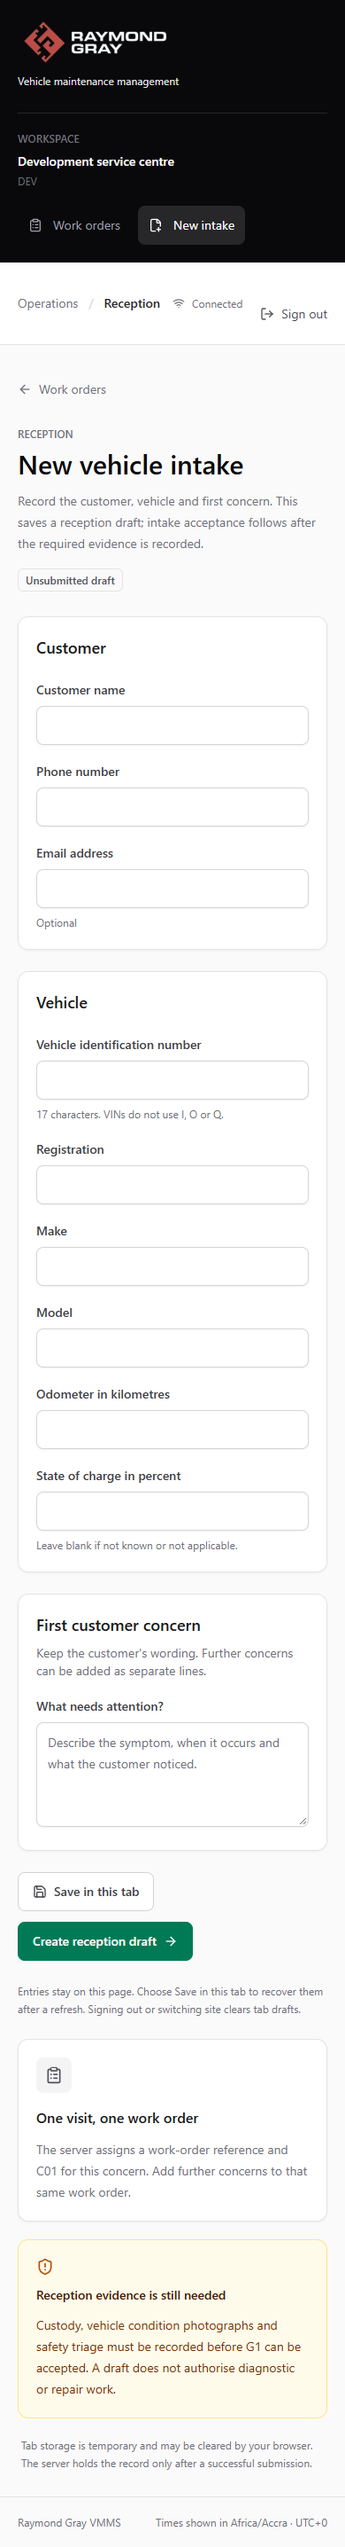
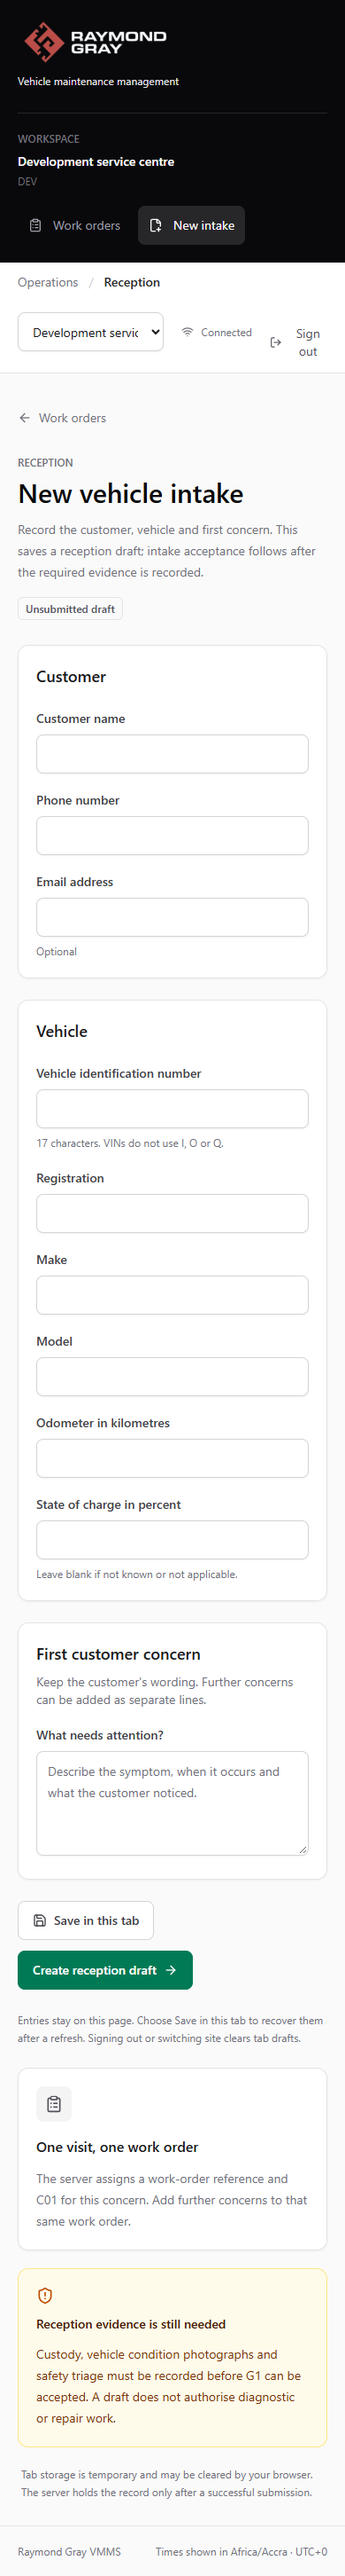
Verify shared-device site draft cleanup

diff --git a/apps/api/scripts/seed.ts b/apps/api/scripts/seed.ts
@@ -5,16 +5,20 @@ import { z } from 'zod';
 
 loadEnv({path:fileURLToPath(new URL('../../../.env',import.meta.url)),quiet:true});
 if (process.env.NODE_ENV==='production') throw new Error('Synthetic development seed cannot run in production.');
-const pool=new pg.Pool({connectionString:z.url().parse(process.env.MIGRATION_DATABASE_URL)});
+const migrationUrl=new URL(z.url().parse(process.env.MIGRATION_DATABASE_URL));
+if (!['localhost','127.0.0.1','::1'].includes(migrationUrl.hostname)) throw new Error('Synthetic development seed requires a loopback-only migration database.');
+const pool=new pg.Pool({connectionString:migrationUrl.toString()});
 try {
   const client=await pool.connect();
   try {
     await client.query('BEGIN');
     await client.query("INSERT INTO organisations(id,name) VALUES('10000000-0000-4000-8000-000000000001','Raymond Gray development') ON CONFLICT(id) DO NOTHING");
     await client.query("INSERT INTO sites(id,organisation_id,code,name) VALUES('10000000-0000-4000-8000-000000000002','10000000-0000-4000-8000-000000000001','DEV','Development service centre') ON CONFLICT(id) DO NOTHING");
+    await client.query("INSERT INTO sites(id,organisation_id,code,name) VALUES('10000000-0000-4000-8000-000000000004','10000000-0000-4000-8000-000000000001','QA','Synthetic QA centre') ON CONFLICT(id) DO NOTHING");
     await client.query("INSERT INTO staff_users(id,username,display_name,password_hash) VALUES('10000000-0000-4000-8000-000000000003','advisor','Development advisor',NULL) ON CONFLICT(id) DO NOTHING");
     await client.query("INSERT INTO memberships(user_id,site_id,can_write) VALUES('10000000-0000-4000-8000-000000000003','10000000-0000-4000-8000-000000000002',true) ON CONFLICT(user_id,site_id) DO NOTHING");
+    await client.query("INSERT INTO memberships(user_id,site_id,can_write) VALUES('10000000-0000-4000-8000-000000000003','10000000-0000-4000-8000-000000000004',true) ON CONFLICT(user_id,site_id) DO NOTHING");
     await client.query('COMMIT');
   } catch(error) {await client.query('ROLLBACK');throw error;} finally {client.release();}
-  process.stdout.write('Synthetic development staff account and site DEV are ready for an explicitly linked OIDC identity. No technical or financial grants were created.\n');
+  process.stdout.write('Synthetic development staff account and sites DEV/QA are ready for an explicitly linked OIDC identity. No technical or financial grants were created.\n');
 } finally {await pool.end();}

diff --git a/docs/delivery/implementation-tracker.md b/docs/delivery/implementation-tracker.md
@@ -66,7 +66,7 @@ The product goal remains open until the specification, approved rollout scope, o
 | F-008 | Build responsive shell and accessible controls | verified | F-001 | docs/verification/responsive-shell.md: 15 Edge viewport/orientation and 200%/400% zoom checks pass for public sign-in only; keyboard focus and physical-device limitations are recorded, scripts/browser-smoke.mjs, docs/verification/browser/results.json, docs/verification/responsive-shell.md, docs/verification/browser/work-order-phone.png, docs/verification/browser/queue-phone.png, docs/verification/browser/intake-phone.png |
 | F-009 | Create domain, database and browser verification entry points | verified | F-001, F-003 | apps/api/test/foundation.test.ts: real PostgreSQL integration entry point for domain, tenancy, command, and rollback behavior, apps/web/scripts/verify-responsive.mjs: repeatable Microsoft Edge responsive public sign-in entry point, docs/verification/checks/results.json: local typecheck, build, traceability, and API integration results, scripts/browser-smoke.mjs, docs/verification/browser/results.json, apps/api/test/foundation.test.ts, docs/verification/checks/results.json |
 | F-010 | Configure CI and secret-safe development environment | implemented | F-009 | apps/api/test/foundation.test.ts: real PostgreSQL integration entry point for domain, tenancy, command, and rollback behavior, apps/web/scripts/verify-responsive.mjs: repeatable Microsoft Edge responsive public sign-in entry point, docs/verification/checks/results.json: full local typecheck, build, traceability, and API integration results, .github/workflows/verify.yml, package.json, .env.example, docs/guides/development.md, apps/api/test/config.test.ts, docs/verification/checks/results.json |
-| F-011 | Implement saved drafts with explicit recovery state | in-progress | F-008, F-005 | scripts/browser-smoke.mjs, docs/verification/browser/results.json, apps/web/src/pages/intake.tsx, docs/architecture/platform-strategy.md, apps/web/src/drafts.ts (eight-hour maximum age for session-scoped intake drafts), scripts/browser-smoke.mjs (expired draft removal scenario), docs/verification/browser/results.json (17 local browser checks; draft expiry included) |
+| F-011 | Implement saved drafts with explicit recovery state | in-progress | F-008, F-005 | scripts/browser-smoke.mjs, docs/verification/browser/results.json, apps/web/src/pages/intake.tsx, docs/architecture/platform-strategy.md, apps/web/src/drafts.ts (eight-hour maximum age for session-scoped intake drafts), scripts/browser-smoke.mjs (expired draft removal scenario), docs/verification/browser/results.json (17 local browser checks; draft expiry included), docs/verification/browser/results.json (18 local browser checks; cross-site draft cleanup included) |
 | BUILD-BR-01 | One controlling work order per visit | planned | F-002, F-009, F-003, F-005, F-006 |  |
 | CHECK-BR-01 | Verify One controlling work order per visit | planned | BUILD-BR-01 |  |
 | BUILD-BR-13 | Append or version historical records | planned | F-002, F-009, F-003, F-005, F-006 |  |
@@ -211,7 +211,7 @@ The product goal remains open until the specification, approved rollout scope, o
 | CHECK-R-M-0166 | Verify Technical lead review workbench | planned | BUILD-R-M-0166 |  |
 | BUILD-R-M-0184 | Traceable diagnostic uploads and indexed metadata | planned | F-002, F-009, F-003, F-005, F-006, BUILD-R-M-0130, BUILD-R-M-0137 |  |
 | CHECK-R-M-0184 | Verify Traceable diagnostic uploads and indexed metadata | planned | BUILD-R-M-0184 |  |
-| P-004 | Verify interrupted draft recovery and personal-data expiry | in-progress | F-011 | docs/verification/browser/results.json, scripts/browser-smoke.mjs (expired draft deletion and no-recovery scenario), docs/verification/browser/results.json (17 local browser checks; draft expiry included) |
+| P-004 | Verify interrupted draft recovery and personal-data expiry | in-progress | F-011 | docs/verification/browser/results.json, scripts/browser-smoke.mjs (expired draft deletion and no-recovery scenario), docs/verification/browser/results.json (17 local browser checks; draft expiry included), docs/verification/browser/results.json (18 local browser checks; cross-site draft cleanup included) |
 | E16 | Approved vehicle-owner launch portal | planned |  |  |
 | CUST-001 | Define owner identity and publication contracts | in-progress | F-002, D-007 | docs/architecture/vehicle-owner-access.md |
 | CUST-002 | Implement owner relationship lifecycle commands | in-progress | CUST-001, F-003, F-005, F-006, F-007 | apps/api/test/foundation.test.ts: PostgreSQL lifecycle, authorization, replay, expiry and rollback integration tests, docs/architecture/vehicle-owner-access.md: site-local implementation boundary and operational launch gates |

diff --git a/docs/guides/development.md b/docs/guides/development.md
@@ -12,7 +12,7 @@ The integration suite creates a uniquely named `vmms_test_...` database with the
 
 Web sign-in redirects to the shared OIDC provider using an authorization code, PKCE S256, one-time state and nonce, plus a browser-bound short-lived transaction. Only an explicitly mapped active VMMS staff identity receives a VMMS session. The local test app exposes password login only under `NODE_ENV=test`. The browser still receives a host-only VMMS session and CSRF cookie; mutations send the CSRF token in `X-CSRFToken`, preserve the same-origin `Origin`, and business commands require a UUID `Idempotency-Key`.
 
-For local OIDC smoke testing, start Keycloak from `C:\Projects\raymond-gray-auth`, register its loopback-only VMMS client, provision the disposable test user, run `npm run dev:seed`, then `npm run dev:link-auth`. See the [OIDC integration design](../architecture/oidc-vmms-integration.md). Do not use the synthetic local user or its credential outside development.
+For local OIDC smoke testing, start Keycloak from `C:\Projects\raymond-gray-auth`, register its loopback-only VMMS client, provision the disposable test user, run `npm run dev:seed`, then `npm run dev:link-auth`. The seed creates synthetic DEV and QA sites for membership-switch browser checks and refuses non-loopback migration databases. See the [OIDC integration design](../architecture/oidc-vmms-integration.md). Do not use the synthetic local user or its credential outside development.
 
 Updates include `expectedVersion`. Do not retry a changed payload with the previous key or turn a rejected command into an accepted UI state.
 
